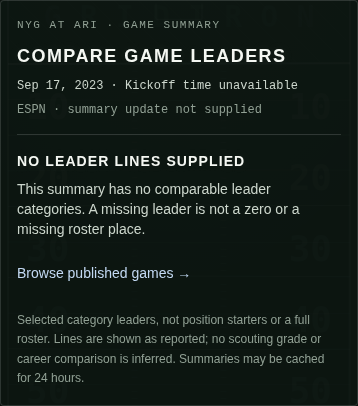
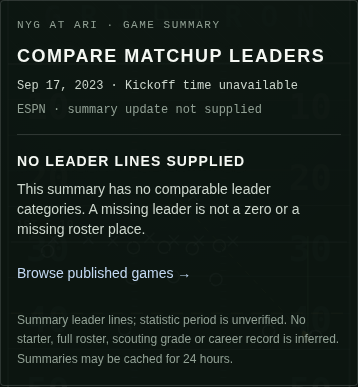
Require provider category keys and clarify summary statistic scope

diff --git a/src/components/players/GameLeaderComparison.tsx b/src/components/players/GameLeaderComparison.tsx
@@ -12,7 +12,7 @@ export function GameLeaderComparison({ detail, gameId, home, away, date, datePre
   return <section id="comparison" className="card scroll-mt-20 p-4 sm:p-6" aria-label="Game leader comparison">
     <header className="space-y-2">
       <p className="eyebrow">{away} at {home} · game summary</p>
-      <h2 className="text-lg">Compare game leaders</h2>
+      <h2 className="text-lg">Compare matchup leaders</h2>
       <p className="font-mono text-xs text-[var(--text-secondary)]">{playerMatchDate(date, datePrecision)}</p>
       <p className="font-mono text-xs text-[var(--text-tertiary)]">ESPN · summary update {detail.source.asOf ? forecastStamp(detail.source.asOf) : 'not supplied'}</p>
     </header>
@@ -26,6 +26,6 @@ export function GameLeaderComparison({ detail, gameId, home, away, date, datePre
           : 'This summary has no comparable leader categories. A missing leader is not a zero or a missing roster place.'}</p>
       <Link href="/games" className="mt-3 inline-flex min-h-[44px] items-center text-sm text-[var(--accent-info)] hover:underline">Browse published games →</Link>
     </div>}
-    <p className="mt-4 text-xs leading-relaxed text-[var(--text-tertiary)]">Selected category leaders, not position starters or a full roster. Lines are shown as reported; no scouting grade or career comparison is inferred. Summaries may be cached for 24 hours.</p>
+    <p className="mt-4 text-xs leading-relaxed text-[var(--text-tertiary)]">Summary leader lines; statistic period is unverified. No starter, full roster, scouting grade or career record is inferred. Summaries may be cached for 24 hours.</p>
   </section>
 }

diff --git a/src/lib/leaderComparison.ts b/src/lib/leaderComparison.ts
@@ -22,7 +22,7 @@ export function leaderComparisons(detail: GameDetail, home: string, away: string
   const rows = new Map<string, LeaderComparisonRow>()
   for (const group of detail.leaders) {
     const side = group.team === away ? 'away' : group.team === home ? 'home' : null
-    const key = group.categoryKey?.trim() || (group.label.trim() ? `label:${group.label.trim()}` : '')
+    const key = group.categoryKey?.trim()
     if (!side || !key) continue
     let row = rows.get(key)
     if (!row) {

diff --git a/docs/LEADER_COMPARISON_2026-10.md b/docs/LEADER_COMPARISON_2026-10.md
@@ -4,7 +4,9 @@ The existing Games/results archive → matchup → player/team journey now inclu
 an away/home leader comparison. A native category selector pairs only identical
 ESPN category keys and shows each reported statistic verbatim. Provider IDs,
 actual supplied positions and shirt numbers retain their source meaning.
-Missing sides, statistics and IDs stay unknown; conflicting identities or
+The statistic period is unverified and is stated on the board; a summary line
+is not asserted to be game-only or career performance. Missing sides, statistics
+and IDs stay unknown; conflicting identities or
 multiple leader lines are withheld. Profiles and team links return to the
 selected category URL, and one further Back returns to the originating archive.
 

diff --git a/docs/DESIGN.md b/docs/DESIGN.md
@@ -309,7 +309,8 @@ including on phones. A native 44px category selector updates the shareable
 `?compare=` URL without a summary refetch or another Back step. Team marks,
 provider-ID profile links, permitted portrait policy and neutral identity plates
 reuse the existing components. Reported positions and raw lines carry the
-comparison; no scouting grade, inferred starter, career total or second model
+comparison, with the unverified statistic period explicitly labelled; no
+scouting grade, inferred starter, career total or second model
 is introduced. Day-only archives label kickoff unavailable; source update and
 cache coverage stay visible beside the game date.
 

diff --git a/README.md b/README.md
@@ -37,7 +37,8 @@ and delayed-navigation checks use documented controlled responses.
 leaders in the same ESPN category on existing matchup pages. Category links
 retain selection on profile/team return. Raw reported lines and actual supplied
 positions stay separate from forecast probabilities; missing or ambiguous
-identity/statistics remain unknown. This cloud review reuses the recorded
+identity/statistics remain unknown, and statistic period is unverified.
+This cloud review reuses the recorded
 October 4 summary for browser QA and makes no new source-freshness claim.
 
 ## What it does
